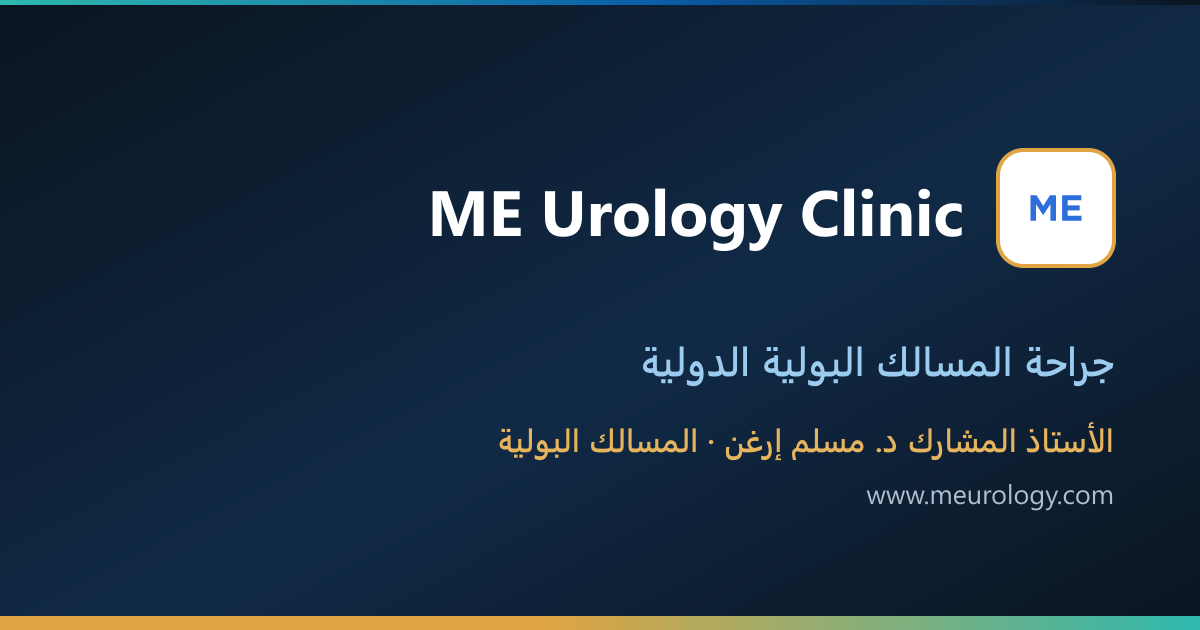
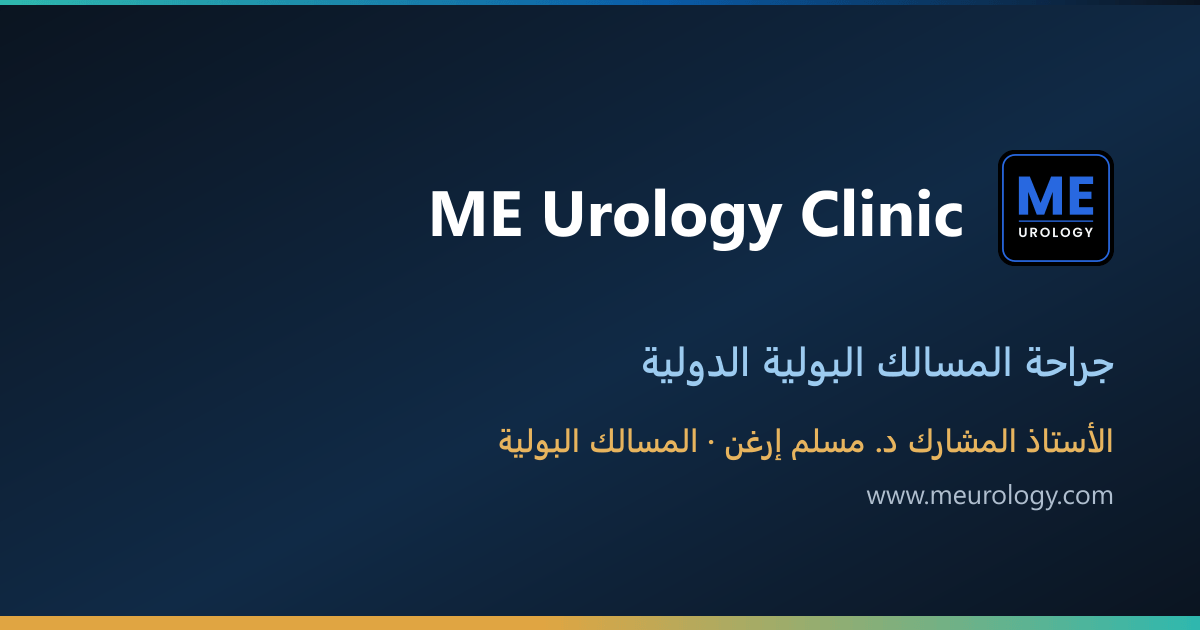
Yeni ME UROLOGY logosu: baslik, alt bilgi, sekme/telefon simgesi, paylasim gorselleri
- Dr. Ergun'un tarifi: siyah yuvarlak kare (%14 kose), ince #2868E0 ic
  cizgi, buyuk mavi ME, cizgi, beyaz UROLOGY (ME'nin %25'i). Harfler
  Poppins'ten yola cevrildi; tek kaynak scripts/build-logo.js.
- Baslikta logo tek basina 52 px ("Urology Clinic" yazisi kaldirildi),
  alt bilgide 72 px. Sekme simgesi yalniz ME (16-32 px'te UROLOGY
  okunmuyor), telefon simgesi tam logo.
- OG gorselleri ayni logoyu gomer; OG_SURUM 3 (onizleme onbellegi).

Changed region(s): [[0.8325, 0.2111, 0.9558, 0.4524]]

diff --git a/scripts/build-logo.js b/scripts/build-logo.js
@@ -1,0 +1,115 @@
+/*
+ * ME UROLOGY LOGOSU — tek kaynaktan üç dosya üretir (11 Eki 2026, Dr. Ergün'ün tarifi):
+ *   public/brand/me-urology.svg  tam logo (ME + çizgi + UROLOGY) — başlık, alt bilgi, OG
+ *   public/brand/emblem.svg      yalnız ME — küçük boyutlar için
+ *   src/app/icon.svg             tarayıcı sekmesi simgesi (= emblem.svg)
+ *   src/app/apple-icon.png       telefon ana ekran simgesi, 180x180 (tam logo, köşesiz)
+ *
+ * Tasarım: siyah yuvarlak kare (köşe yarıçapı kenarın %14'ü), ince elektrik
+ * mavisi iç çizgi (#2868E0, kenarın %1,5'i), büyük mavi "ME", altında harfler
+ * genişliğinde ince mavi çizgi, onun altında beyaz (#F8F8F8) "UROLOGY"
+ * (yüksekliği ME'nin %25'i, geniş harf aralığı). Gölge, degrade, parlama yok.
+ *
+ * Harfler sitenin marka fontu Poppins'ten YOLA çevrilir: SVG <img> olarak
+ * kullanıldığında web fontu yüklenemez, <text> her cihazda farklı görünürdü.
+ *
+ * Çalıştırma (iki paket yalnızca bu betik için, projeye eklenmez):
+ *   npm i --no-save opentype.js@1.3.4 @fontsource/poppins@5.1.0
+ *   node scripts/build-logo.js
+ *   node scripts/build-og-images.js   (OG görselleri yeni logoyu buradan alır)
+ */
+const fs = require('fs');
+const path = require('path');
+const sharp = require('sharp');
+const opentype = require('opentype.js');
+
+const fontDosyasi = (w) =>
+  path.join(path.dirname(require.resolve('@fontsource/poppins/package.json')), `files/poppins-latin-${w}-normal.woff`);
+const BOLD = opentype.loadSync(fontDosyasi(700));
+const SEMI = opentype.loadSync(fontDosyasi(600));
+
+const S = 512;
+const MAVI = '#2868E0';
+const BEYAZ = '#F8F8F8';
+
+/** Metni yola çevirir (kerning + harf aralığı, em cinsinden); mürekkep sınırlarını da döndürür. */
+function metinYolu(font, text, size, tracking) {
+  const scale = size / font.unitsPerEm;
+  const glifler = font.stringToGlyphs(text);
+  let x = 0;
+  let minX = Infinity, maxX = -Infinity, minY = Infinity, maxY = -Infinity;
+  const d = [];
+  glifler.forEach((g, i) => {
+    const p = g.getPath(x, 0, size);
+    const bb = p.getBoundingBox();
+    minX = Math.min(minX, bb.x1); maxX = Math.max(maxX, bb.x2);
+    minY = Math.min(minY, bb.y1); maxY = Math.max(maxY, bb.y2);
+    d.push(p.toPathData(2));
+    x += g.advanceWidth * scale;
+    if (i < glifler.length - 1) x += font.getKerningValue(g, glifler[i + 1]) * scale + tracking * size;
+  });
+  return { d: d.join(''), minX, minY, w: maxX - minX, h: maxY - minY };
+}
+
+/** Mürekkebi yatayda cx'e ortalayıp üst kenarını ustY'ye koyan path öğesi. */
+function yerlestir(o, cx, ustY, fill) {
+  const tx = (cx - (o.minX + o.w / 2)).toFixed(2);
+  const ty = (ustY - o.minY).toFixed(2);
+  return `<path fill="${fill}" transform="translate(${tx} ${ty})" d="${o.d}"/>`;
+}
+
+/**
+ * @param {object} o
+ * @param {boolean} o.tam        UROLOGY satırı dahil mi
+ * @param {number}  o.kose       dış köşe yarıçapı (kenara oran; 0 = köşesiz)
+ * @param {number}  o.icPay      iç çizginin kenardan uzaklığı (oran)
+ * @param {number}  o.cizgi      iç çizgi kalınlığı (oran)
+ * @param {number}  o.icKose     iç çizgi köşe yarıçapı (oran)
+ * @param {number}  o.meGenislik ME'nin kenara oranla genişliği
+ */
+function logo({ tam, kose, icPay, cizgi, icKose, meGenislik }) {
+  const ilk = metinYolu(BOLD, 'ME', 100, 0.02);
+  const me = metinYolu(BOLD, 'ME', (100 * S * meGenislik) / ilk.w, 0.02);
+  const cx = S / 2;
+  let icerik;
+  if (tam) {
+    const deneme = metinYolu(SEMI, 'UROLOGY', 100, 0.14);
+    const uro = metinYolu(SEMI, 'UROLOGY', (100 * me.h * 0.25) / deneme.h, 0.14);
+    const kural = Math.max(4, Math.round(S * 0.011));
+    const bosluk = S * 0.05;
+    const grup = me.h + bosluk + kural + bosluk + uro.h;
+    const ust = (S - grup) / 2 - S * 0.01; // optik olarak hafif yukarı
+    const kuralY = ust + me.h + bosluk;
+    icerik = [
+      yerlestir(me, cx, ust, MAVI),
+      `<rect x="${(cx - me.w / 2).toFixed(2)}" y="${kuralY.toFixed(2)}" width="${me.w.toFixed(2)}" height="${kural}" fill="${MAVI}"/>`,
+      yerlestir(uro, cx, kuralY + kural + bosluk, BEYAZ)
+    ].join('\n  ');
+  } else {
+    icerik = yerlestir(me, cx, (S - me.h) / 2, MAVI);
+  }
+  const sw = +(S * cizgi).toFixed(2);
+  const ic = S * icPay + sw / 2;
+  return `<svg xmlns="http://www.w3.org/2000/svg" viewBox="0 0 ${S} ${S}" role="img" aria-label="ME Urology">
+  <!-- scripts/build-logo.js ile üretildi; elle düzenlemeyin. -->
+  <rect width="${S}" height="${S}" rx="${+(S * kose).toFixed(1)}" fill="#000000"/>
+  <rect x="${ic}" y="${ic}" width="${S - 2 * ic}" height="${S - 2 * ic}" rx="${+(S * icKose).toFixed(1)}" fill="none" stroke="${MAVI}" stroke-width="${sw}"/>
+  ${icerik}
+</svg>
+`;
+}
+
+const TAM = logo({ tam: true, kose: 0.14, icPay: 0.035, cizgi: 0.015, icKose: 0.105, meGenislik: 0.64 });
+// 16–32 px'te UROLOGY okunmaz; iç çizgi de %1,5'te kaybolur, bu yüzden kalın.
+const AMBLEM = logo({ tam: false, kose: 0.14, icPay: 0.04, cizgi: 0.045, icKose: 0.1, meGenislik: 0.7 });
+// iOS simgeyi kendi maskesiyle (~%22 köşe) keser: köşesiz zemin, iç çizgi maskenin içinde kalsın.
+const APPLE = logo({ tam: true, kose: 0, icPay: 0.07, cizgi: 0.018, icKose: 0.15, meGenislik: 0.6 });
+
+(async () => {
+  const yaz = (p, s) => { fs.writeFileSync(p, s); console.log(`${p}  ${(s.length / 1024).toFixed(1)} KB`); };
+  yaz('public/brand/me-urology.svg', TAM);
+  yaz('public/brand/emblem.svg', AMBLEM);
+  yaz('src/app/icon.svg', AMBLEM);
+  await sharp(Buffer.from(APPLE), { density: 144 }).resize(180, 180).png({ compressionLevel: 9 }).toFile('src/app/apple-icon.png');
+  console.log('src/app/apple-icon.png  180x180');
+})();

diff --git a/scripts/build-og-images.js b/scripts/build-og-images.js
@@ -29,25 +29,18 @@ const FONT = "Segoe UI, Noto Sans, DejaVu Sans, Arial, sans-serif";
 const esc = (t) => t.replace(/&/g, '&amp;').replace(/</g, '&lt;').replace(/>/g, '&gt;');
 
 /**
- * Amblem: beyaz yuvarlatilmis kare + altin cerceve + marka mavisi ME.
+ * Logo: public/brand/me-urology.svg (scripts/build-logo.js) olduğu gibi gömülür.
  *
- * KOYU ZEMINDE BEYAZ KUTU BILEREK KORUNDU ("ters logo"): OG gorselinin
- * zemini koyu lacivert; Canva'daki siyah kutulu mark bu zeminde ayrismiyor.
- * 8 Eki 2026'da yalnizca ME harflerinin rengi sitenin logosuyla ayni tona
- * (#2D6DDC) cekildi; onceden #0A5CA8 idi ve ayni markanin iki farkli
- * mavisi olusuyordu.
+ * 11 Eki 2026'ya kadar burada koyu zeminde ayrışsın diye beyaz kutulu,
+ * altın çerçeveli ayrı bir "ters logo" çiziliyordu. Yeni logonun ince mavi
+ * iç çizgisi lacivert zeminde de kutuyu belli ettiği için artık sitedeki
+ * logoyla birebir aynı görsel kullanılıyor.
  */
+const LOGO = fs.readFileSync(path.join('public', 'brand', 'me-urology.svg'), 'utf8');
+const LOGO_IC = LOGO.slice(LOGO.indexOf('>') + 1, LOGO.lastIndexOf('</svg>'));
+const LOGO_VB = LOGO.match(/viewBox="([^"]+)"/)[1];
 function emblem(x, y, size) {
-  const s = (size * 0.74) / 132; // amblem viewBox 132x132
-  const inner = size * 0.74;
-  const ox = x + (size - inner) / 2;
-  const oy = y + (size - inner) / 2;
-  return `
-  <rect x="${x}" y="${y}" width="${size}" height="${size}" rx="${size * 0.22}" fill="#FFFFFF" stroke="#E0A542" stroke-width="4"/>
-  <g transform="translate(${ox},${oy}) scale(${s}) translate(15.73,12.423)" fill="#2D6DDC">
-    <path transform="translate(6.304958,73.194123)" d="M 4.703125 -39.234375 L 14.015625 -39.234375 L 24.328125 -22.640625 L 34.640625 -39.234375 L 43.9375 -39.234375 L 43.9375 0 L 35.359375 0 L 35.359375 -25.609375 L 24.328125 -8.859375 L 24.09375 -8.859375 L 13.171875 -25.453125 L 13.171875 0 L 4.703125 0 Z"/>
-    <path transform="translate(54.953542,73.194123)" d="M 4.703125 -39.234375 L 34.296875 -39.234375 L 34.296875 -31.546875 L 13.28125 -31.546875 L 13.28125 -23.59375 L 31.78125 -23.59375 L 31.78125 -15.921875 L 13.28125 -15.921875 L 13.28125 -7.671875 L 34.578125 -7.671875 L 34.578125 0 L 4.703125 0 Z"/>
-  </g>`;
+  return `<svg x="${x}" y="${y}" width="${size}" height="${size}" viewBox="${LOGO_VB}">${LOGO_IC}</svg>`;
 }
 
 function svgFor(loc) {

diff --git a/src/components/SiteHeader.tsx b/src/components/SiteHeader.tsx
@@ -16,29 +16,25 @@ export async function SiteHeader() {
   // content listesindeki dosyaları tarar, bkz. config/nav.ts yorumu.
   const genis = navNeedsWideBreakpoint(locale);
   const bp = genis
-    ? { masaustu: 'hidden min-[1320px]:block', mobilde: 'min-[1320px]:hidden', wordmark: 'min-[1320px]:text-base' }
-    : { masaustu: 'hidden min-[1200px]:block', mobilde: 'min-[1200px]:hidden', wordmark: 'min-[1200px]:text-base' };
+    ? { masaustu: 'hidden min-[1320px]:block', mobilde: 'min-[1320px]:hidden' }
+    : { masaustu: 'hidden min-[1200px]:block', mobilde: 'min-[1200px]:hidden' };
 
   return (
     <header className="sticky top-0 z-30 border-b border-border/80 bg-bg/85 backdrop-blur supports-[backdrop-filter]:bg-bg/70">
       <div className="mx-auto flex h-16 w-full max-w-[1600px] items-center justify-between gap-4 px-4 sm:px-6 lg:px-8">
-        <Link href="/" className="flex shrink-0 items-center gap-[9px]" aria-label={siteConfig.name}>
-          {/* Amblem (ME) — mobil ve masaüstünde görünür */}
+        <Link href="/" className="flex shrink-0 items-center" aria-label={siteConfig.name}>
+          {/* Logo (ME + UROLOGY) tek başına — 11 Eki 2026, Dr. Ergün'ün seçimi.
+              Logonun içinde UROLOGY yazdığı için yanındaki "Urology Clinic"
+              yazısı kaldırıldı. 64 px'lik başlıkta 52 px: UROLOGY satırı ancak
+              bu boyutta okunuyor. Kaynak: scripts/build-logo.js */}
           {/* eslint-disable-next-line @next/next/no-img-element */}
           <img
-            src="/brand/emblem.svg"
+            src="/brand/me-urology.svg"
             alt=""
-            width={36}
-            height={36}
-            className="h-9 w-9"
+            width={52}
+            height={52}
+            className="h-[52px] w-[52px]"
           />
-          {/* Wordmark — marka adı; çevrilmesin (translate="no") ve satır bölünmesin */}
-          <span
-            translate="no"
-            className={`hidden whitespace-nowrap font-brand text-lg font-semibold leading-none tracking-tight text-brand sm:inline ${bp.wordmark}`}
-          >
-            Urology Clinic
-          </span>
         </Link>
 
         {/* Masaüstü menü — xl+ (1280px). Altında hamburger.

diff --git a/src/components/SiteFooter.tsx b/src/components/SiteFooter.tsx
@@ -32,15 +32,12 @@ export async function SiteFooter() {
                 (Başlıktaki amblem bunun tersidir — oradaki bağlantının zaten
                 aria-label'ı var, bu yüzden orada alt="" doğrudur.) */}
             <img
-              src="/brand/emblem.svg"
+              src="/brand/me-urology.svg"
               alt={tcom('logoAlt')}
-              width={36}
-              height={36}
-              className="h-9 w-9"
+              width={72}
+              height={72}
+              className="h-[72px] w-[72px]"
             />
-            <span translate="no" className="whitespace-nowrap font-brand text-lg font-semibold tracking-tight text-brand">
-              Urology Clinic
-            </span>
           </div>
           <p className="mt-3 max-w-md text-sm leading-relaxed text-muted">
             {t('tagline')}

diff --git a/src/config/ogImage.ts b/src/config/ogImage.ts
@@ -22,7 +22,7 @@ import type { Locale } from '@/i18n/routing';
  * Sorgu parametresi adresi değiştirdiği için platformlar görseli yeni
  * sayar ve yeniden indirir.
  */
-const OG_SURUM = 2;
+const OG_SURUM = 3; // 3: 11 Eki 2026 yeni ME UROLOGY logosu
 
 export function ogImagePath(locale: Locale): string {
   return `/brand/og-${locale}.png?v=${OG_SURUM}`;
